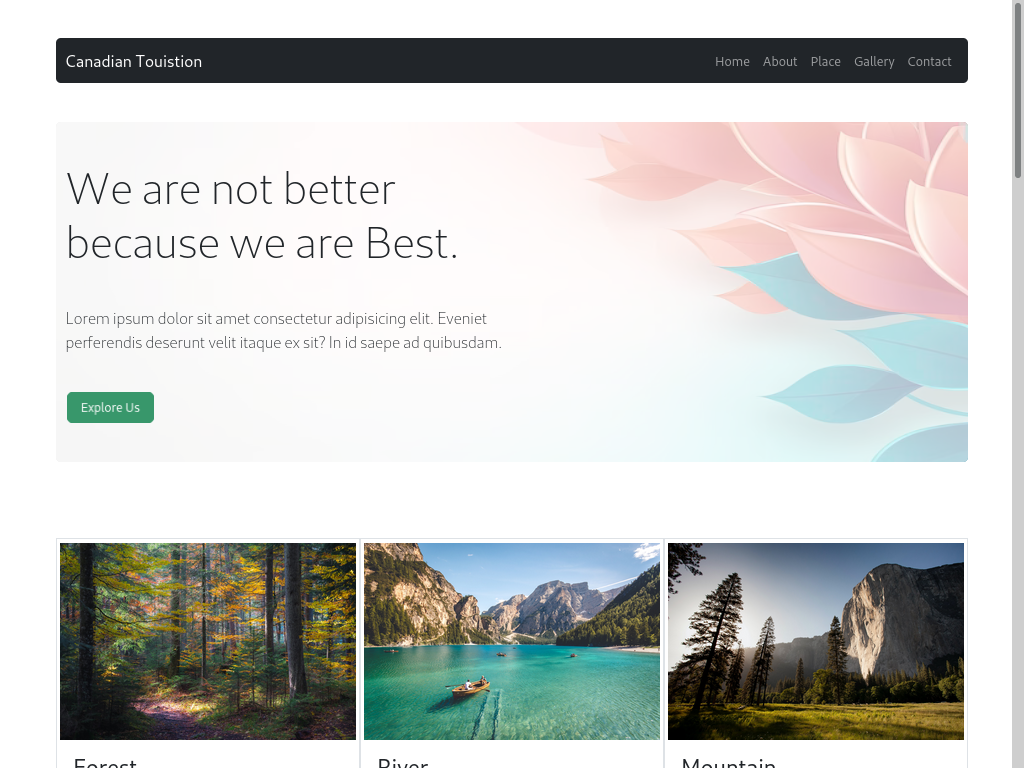
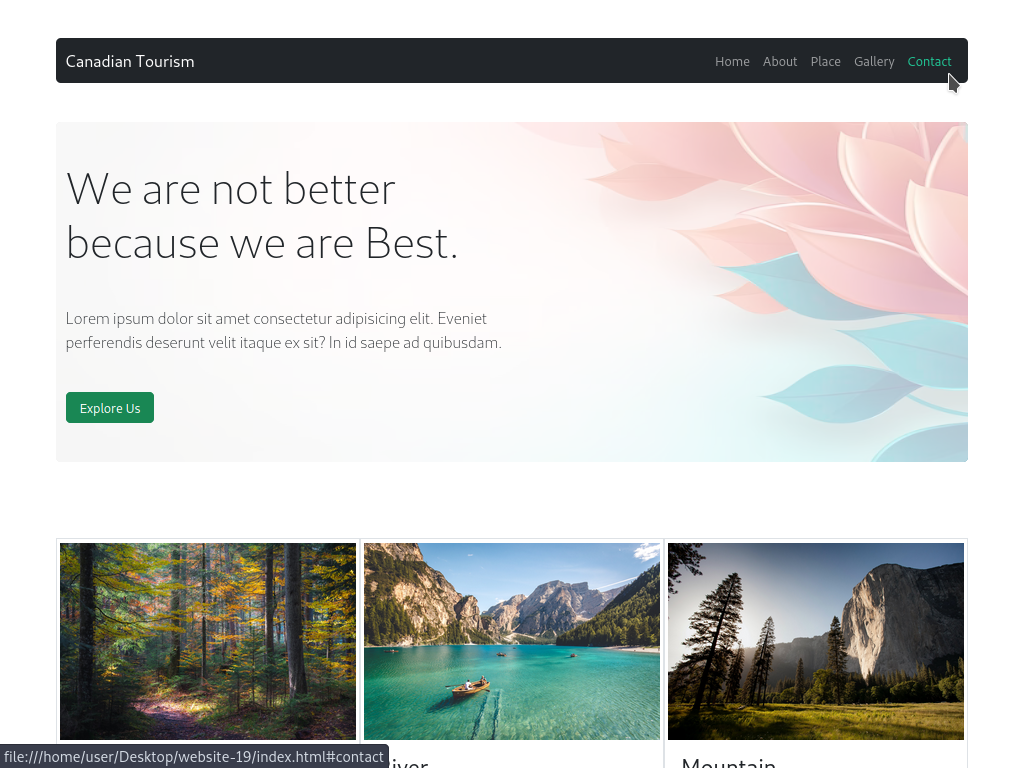
Update */*

diff --git a/js/script.js b/js/script.js
@@ -1,16 +1,86 @@
 /*
--   Website 19 ""
--   All Right Reseved | Copyright
--   Designed By Mayank
--   JavaScript : js/script
+-   Website 19 "Tourism"
+-   Developed | Desgined by Mayank & Vinay
+-   JavaScript : ./js/script.js
 */
 try
 {
-    window.onscroll = () => {
-        // document.getElementById("header").classList.add("bg");
+    let gallery = document.querySelectorAll(" #gallery > .container > .row ")[0]
+
+    /*
+        [ gallery title ]------------------------------------------------------------------------
+    */
+    gallery.innerHTML = (`
+        <div class="col-lg-4 col-md-6 col-12 p-3 bg-success p-5 text-white rounded shadow" id="gl_title">
+                                
+            <div class="h2"> This is your best movement in future life with enjoiness and happiness. </div>
+
+        </div>
+    `)
+
+    /*
+        -----------------------------------------------------------------------------------------
+        | galleryFrame function | layout of gallery frame set by take argument of element
+        -----------------------------------------------------------------------------------------
+    */ 
+
+    function galleryFrame(element)
+    {
+        return (`
+            <!-- ${element} -->
+            <div class="col-lg-4 col-md-6 col-12 p-3 position-relative outerBox">
+                <div class="position-absolute bg-white w-100 h-100 innerBox">
+
+                    <div class="h3 p-3"> ${element.name} </div>
+
+                    <div class="p-3 mx-3"> ${element.about} </div>
+
+                </div>
+                <img src="${element.pic}" alt="" class="w-100 h-100 rounded shadow">
+            </div>
+        `)
     }
+
+    /*
+        -----------------------------------------------------------------------------------------
+        [ tourismData ] array of object connected with foreach loop
+        -----------------------------------------------------------------------------------------
+    */ 
+
+    tourismData = [
+        {
+            name : "River Booting",
+            about : "Lorem ipsum dolor, sit amet consectetur adipisicing elit. Impedit deserunt assumenda, officiis fugit voluptatem illum.",
+            pic : "data/n2.jpg"
+        },
+        {
+            name : "Mount Climbing",
+            about : "Lorem ipsum dolor, sit amet consectetur adipisicing elit. Impedit deserunt assumenda, officiis fugit voluptatem illum.",
+            pic : "data/n3.jpg"
+        },
+        {
+            name : "Forest Camping",
+            about : "Lorem ipsum dolor, sit amet consectetur adipisicing elit. Impedit deserunt assumenda, officiis fugit voluptatem illum.",
+            pic : "data/n4.jpg"
+        },
+        {
+            name : "Shnow Skiing",
+            about : "Lorem ipsum dolor, sit amet consectetur adipisicing elit. Impedit deserunt assumenda, officiis fugit voluptatem illum.",
+            pic : "data/n5.jpg"
+        },
+        {
+            name : "Sea Diving",
+            about : "Lorem ipsum dolor, sit amet consectetur adipisicing elit. Impedit deserunt assumenda, officiis fugit voluptatem illum.",
+            pic : "data/n1.jpg"
+        }
+    ].forEach(element => {
+
+        gallery.insertAdjacentHTML("beforeend",galleryFrame(element))
+
+    })
 }
 catch(error)
 {
     alert(console.error(error));
 }
+// the end

diff --git a/index.html b/index.html
@@ -1,9 +1,8 @@
 <!DOCTYPE html>
 <!--
--   Website 19 ""
--   All Right Reseved | Copyright
--   Designed By Mayank
--   HTML : ./index
+-   Website 19 "Tourism"
+-   Developed | Desgined by Mayank & Vinay
+-   HTML : ./index.html
 -->
 <html lang="en">
 
@@ -30,7 +29,7 @@
                 <nav class="navbar navbar-expand-lg navbar-dark">
                     
                     <!-- brandname -->
-                    <a class="navbar-brand" href="#"> Canadian Touistion </a>
+                    <a class="navbar-brand" href="#"> Canadian Tourism </a>
                     
                     <!-- menu button -->
                     <button class="navbar-toggler" type="button" data-toggle="collapse" data-target="#navbarSupportedContent" aria-controls="navbarSupportedContent" aria-expanded="false" aria-label="Toggle navigation">
@@ -176,26 +175,11 @@
             <div class="container py-5">
                 <div class="row">
                     
-                    <div class="col-lg-4 col-md-6 col-12 p-3 bg-success p-5 text-white rounded shadow" id="gl_title">
-                        
-                        <div class="h2"> This is your best movement in future life with enjoiness and happiness. </div>
-
-                    </div>
-                    <div class="col-lg-4 col-md-6 col-12 p-3">
-                        <img src="data/n2.jpg" alt="" class="w-100 h-100 rounded shadow">
-                    </div>
-                    <div class="col-lg-4 col-md-6 col-12 p-3">
-                        <img src="data/n3.jpg" alt="" class="w-100 h-100 rounded shadow">
-                    </div>
-                    <div class="col-lg-4 col-md-6 col-12 p-3">
-                        <img src="data/n4.jpg" alt="" class="w-100 h-100 rounded shadow">
-                    </div>
-                    <div class="col-lg-4 col-md-6 col-12 p-3">
-                        <img src="data/n5.jpg" alt="" class="w-100 h-100 rounded shadow">
-                    </div>
-                    <div class="col-lg-4 col-md-6 col-12 p-3">
-                        <img src="data/n1.jpg" alt="" class="w-100 h-100 rounded shadow">
-                    </div>
+                    <!--
+                    -   data import by script
+                    -   target by gallery id and containe or row class
+                    -   function "galleryFrame"
+                    -->
                     
                 </div>             
             </div>

diff --git a/css/style.css b/css/style.css
@@ -1,8 +1,8 @@
 /*
 -   Website 19 ""
--   All Right Reseved | Copyright
--   Designed By Mayank
--   CSS : css/style
+-   Website 19 "Tourism"
+-   Developed | Desgined by Mayank & Vinay
+-   CSS : ./css/style.css
 */
 :root
 {
@@ -54,9 +54,11 @@ body
 {
     /* animation: anime 1s linear infinite alternate; */
 }
-#front_btn
+#front_btn:hover
 {
-    animation: anime2 1s linear infinite alternate;
+    opacity: 0.8;
+    transform: scale(0.9);
+    /* animation: anime2 2s linear infinite alternate; */
 }
 @keyframes anime2
 {
@@ -79,6 +81,16 @@ body
     width: 30px;
     height: auto;
     object-fit: cover;
+}
+.innerBox
+{
+    display: none;
+    opacity: 0.8;
+}
+.outerBox:hover .innerBox
+{
+    transition: all 1s linear;
+    display:block;
 }
 /*
     The End =================================

diff --git a/README.md b/README.md
@@ -6,15 +6,15 @@
 
 - Version : 1.2
 
-- Update : 10-09-2023
+- Update : 01-10-2023
 
-- Status : ACTIVE
+- Status : REST
 
 - Responsive : True
 
 - TecStack : { HTML | CSS | JavaScript | Bootstrap }
 
-- Thanks : { VSCode | GitHub | Bootstrap | Unplash }
+- Thanks : { VSCodium | GitHub | Bootstrap | Unplash }
 
 - Work : Self
 
@@ -22,7 +22,7 @@
 
 - Developer : { Mayank | Vinay }
 
-- CopyRight : { ProCoder }
+- CopyRight : { Mayank | Vinay }
 
 - URL : https://mayankdevil.github.io/website-19/
 
@@ -42,7 +42,7 @@ _this website is very responsive webpages, thanks by bootstrap framewrok_
 
 **SCREEN** { 1200PX | 992PX | 785PX | 556PX }
 
-## Information
+## INFOMATION
 
 _this is self preparation tourism imagination website develope for Competiiton with my teammate **vinay sharma** <https://github.com/VinaySharma77/> you checkout in my following_
 
